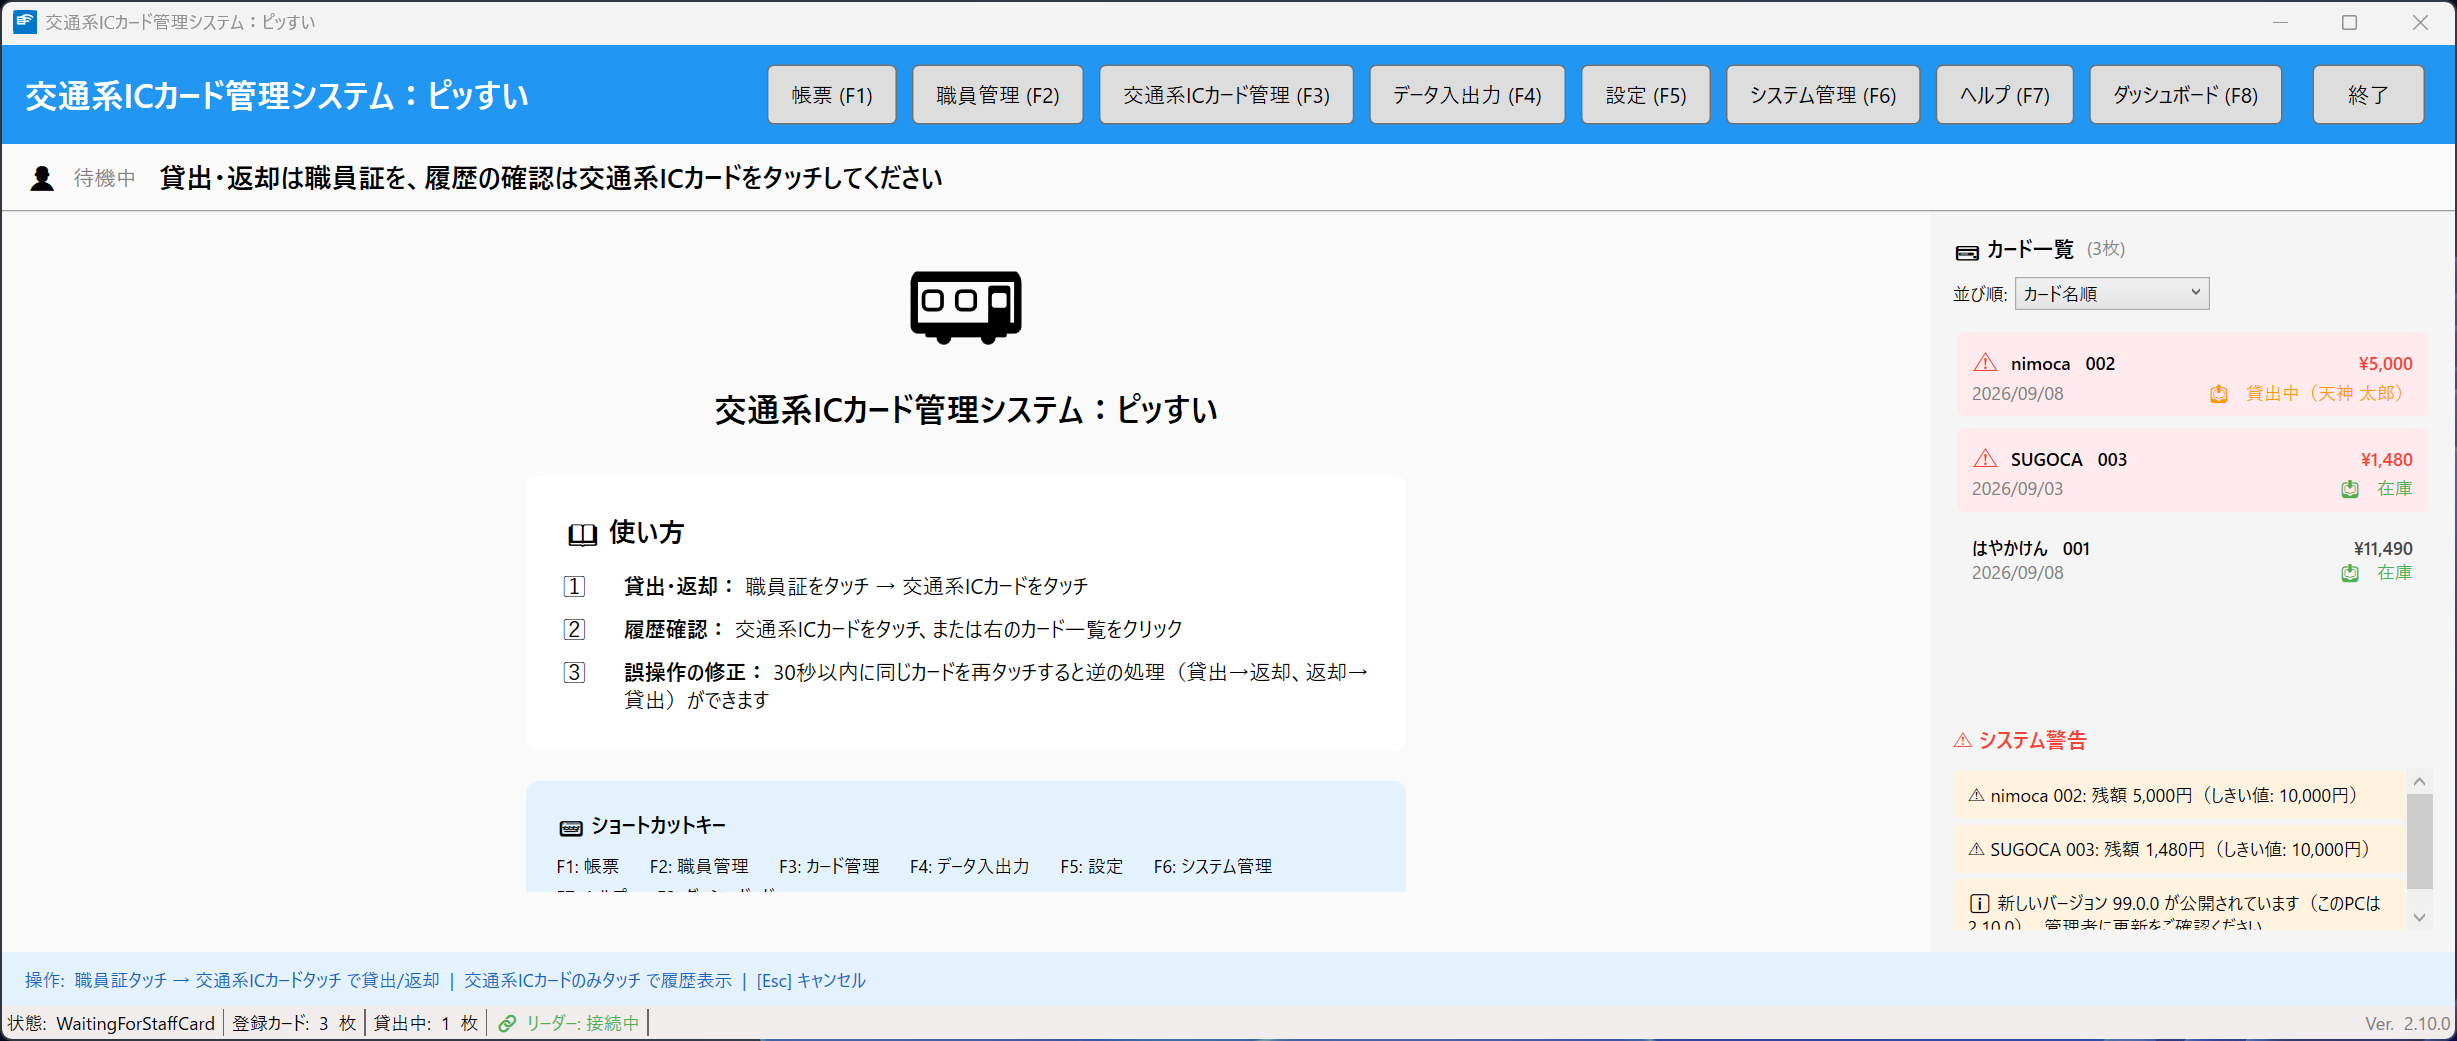
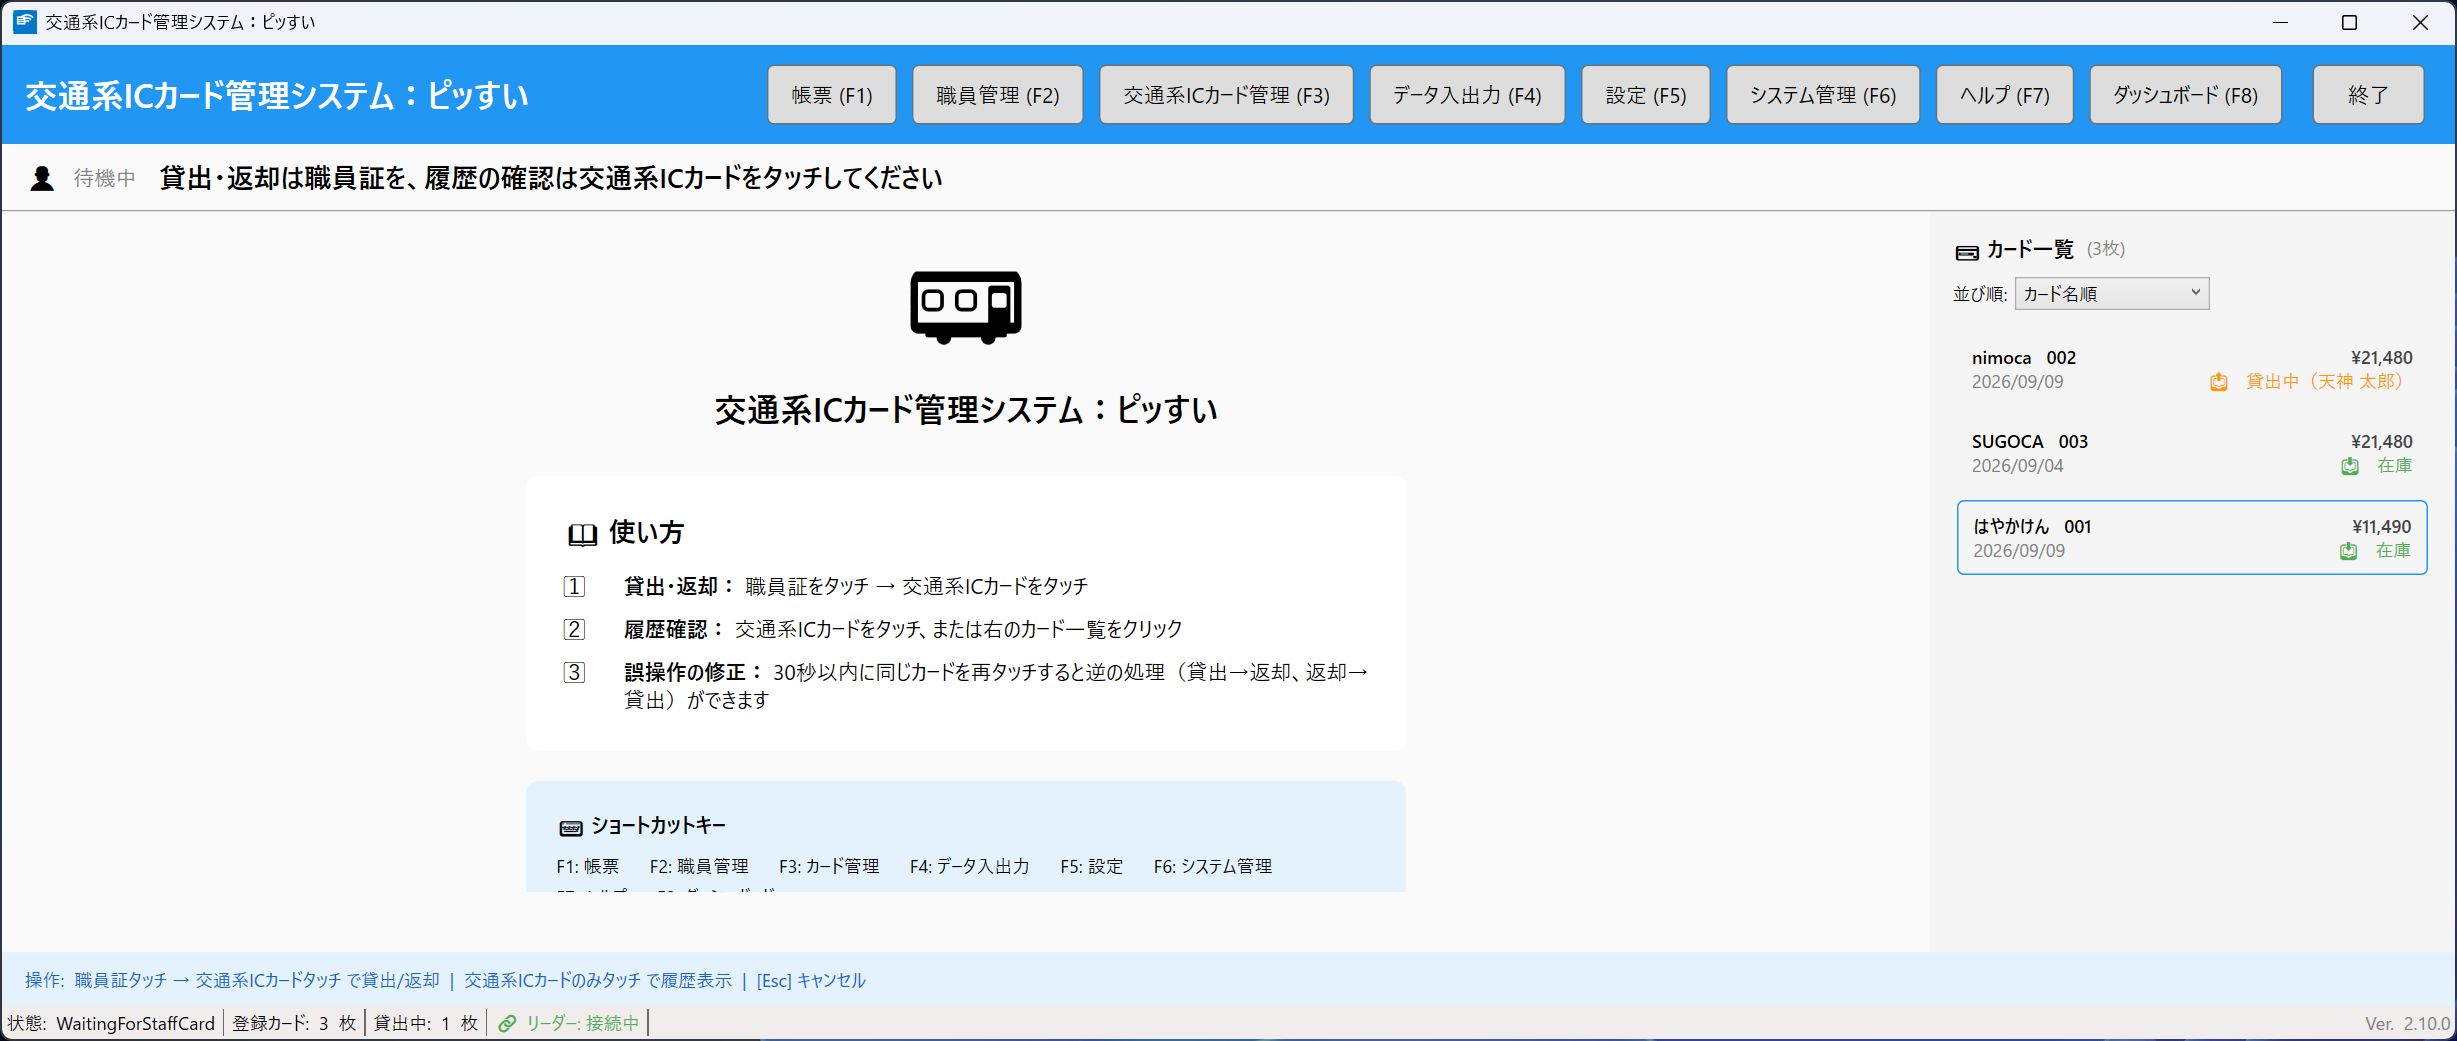
docs: 撮り直したスクリーンショット 17 枚を差し替えた (#2011)
#2026 で撮影した auto/ の画像を目視で確認したうえで -Publish した。

差し替えたのは 17 枚（busstop / card / card_list_status_mixed / export / history /
history_merge / lend / main / main_with_warnings / operation_log / report /
restore_list / return / settings / staff / staff_recognized / system）。
新規 7 枚は #2026 で公開済み、トースト 3 枚は内容が同一だったため差分なし。

main.png は警告の出ない投入データ（SeedWithoutWarnings）で撮り直したため、
main_with_warnings.png と別の画面になっている（#2026 以前は同じ投入データで、
「警告がない場合、このエリアは表示されません」という本文と食い違っていた）。
card_list_status_mixed.png は画面全体ではなくカード一覧の矩形だけを撮る形へ変わった。

撮れなかった 2 枚は既存画像を維持している。いずれも撮影者の環境によるもので、
コード起因ではない:
- error_no_reader.png: 撮影機に PaSoRi が接続されているため設計どおり Skip
- ledger_row_edit.png: 管理者権限の別ウィンドウ（Switch USB）が前面を奪うため失敗

実測: 公開先の 58 枚すべてが描画済み検査（サンプル画素の最多色 0.90 未満）を通過。
手動撮影時代の古い画像を含めて白紙は 1 枚も無い。静的検査 54 件が Release 構成で全件成功。

Claude-Session: https://claude.ai/code/session_01H3hxEXMvzun1owyyquGWRX

diff --git a/ICCardManager/CHANGELOG.md b/ICCardManager/CHANGELOG.md
@@ -14,7 +14,8 @@
   - 対応表と実リポジトリの整合は既存の `Tools/ScreenshotSyncMappingTests` が引き続き固定する（画像名の集合と撮影テストが保存する画像名の一致・フィルタが指すテストの実在・ソースの実在）。`TestConstants` へ足した UIA 名は `Views/UiTestAutomationNameConventionTests` が XAML の実値と突き合わせる
   - **コードレビューでの是正**: ①`SeedWithoutWarnings` が残額不足カードだけを引き上げており、**貸出中カード（残額 5,000 円）の警告が残っていた** — 残額警告の母集団は `IcCard.IsInOperation` で作られ貸出中を除外しない（#1947）ため、`main.png` と `main_with_warnings.png` は同じ画像のままだった。②その見落としは **`main_` に「警告が無いこと」の対の表明が無かった**から気付けなかった（`main_with_warnings_` は「有ること」だけを表明していた）。③`Rectangle.Union` は空の矩形も 1 点として畳むため、要素が非表示になると画面の左上を含む大きな矩形が保存され得た。④「一覧が見つかった」は非同期読み込みの待ちにならない（DataGrid は空でもツリーに居る）ため、`admin_dashboard.png` に「運用状況を集計中...」のオーバーレイが写っていた。⑤接続診断も同じで、そのために足した `ConnectionDiagnosticsItemList` 定数を**一度も参照していなかった**。⑥リストア一覧は `ListView`＋`GridView` で行が `ListItem` にならないため、`AsListBox().Items` ではなく選択できる子孫で行を探す
   - **撮った画像が「描画済み」であることを機械で確かめる**（レビューを受けた実測で判明）。WPF は最初の描画が終わるまでクライアント領域が白いままで、UIA の要素はその前から見える。**別のビルドを並行させた撮影では、テストが全件成功しながら `main.png` / `operation_log.png` / `restore_list.png` / `admin_dashboard.png` が白紙になっていた**。`ScreenshotHelper.CaptureRectangle` はサンプル画素の最多色が 90% 以上なら未描画とみなして 10 秒まで撮り直し、直らなければ `_FAILED.png` へ退避して原因と対処を示す。しきい値は実測から決めた（白紙 0.940〜0.952 / 正常 0.187〜0.726）。**「テストが緑」は「画像が正しい」ではない**ことが実際に起きたため、検査を撮影側へ入れた
-  - **本 PR では新規 7 画面の画像だけを公開し、撮り直しの 7 枚は差し替えていない**（マニュアル本文が参照する画像が無いと壊れるため新規は必須。既存画像の差し替えは見比べたうえで別 PR で行う）
+  - **画像は 24 枚を差し替えた**（新規 7 枚＋撮り直し 17 枚）。撮り直し分は目視で確認したうえで `-Publish` した。**撮れなかった 2 枚は既存画像を維持している** — `error_no_reader.png` は撮影機に PaSoRi が接続されているため設計どおり Skip、`ledger_row_edit.png` は管理者権限の別ウィンドウ（Switch USB）が前面を奪って前面化できず失敗した。いずれも撮影者の環境によるもので、コード起因ではない
+  - **公開先の 58 枚すべてが描画済み検査（最多色 0.90 未満）を通過している**ことを確認した。手動撮影時代の古い画像を含めて白紙は 1 枚も無い
 
 - Issue #2021 **画面の変更があった際にマニュアル用スクリーンショットを自動更新できるようにした**。#2016 で撮影は自動化されたが「どの変更のときに、どの画像を撮り直すか」は人の判断に残っていた。画像ごとに「その画面を構成するソース」（XAML・コードビハインド・ViewModel。全画像に効く `App.xaml`・共通スタイル・変換器・投入データ・撮影ヘルパーは `common`）を対応表 `docs/screenshots/screenshot-sources.json` で宣言し、`tools/screenshot-sync.ps1` が git の差分（比較元との merge-base からの差分＋作業ツリー＋未追跡）と突き合わせて撮り直しが必要な画像を導出する。
   - **判定の根拠はソースの変更であって、撮影後のピクセル比較ではない**。サンプルデータが「当月」を使うため、履歴画面などは毎月ピクセルが変わり、比較では常に「変更あり」になる
